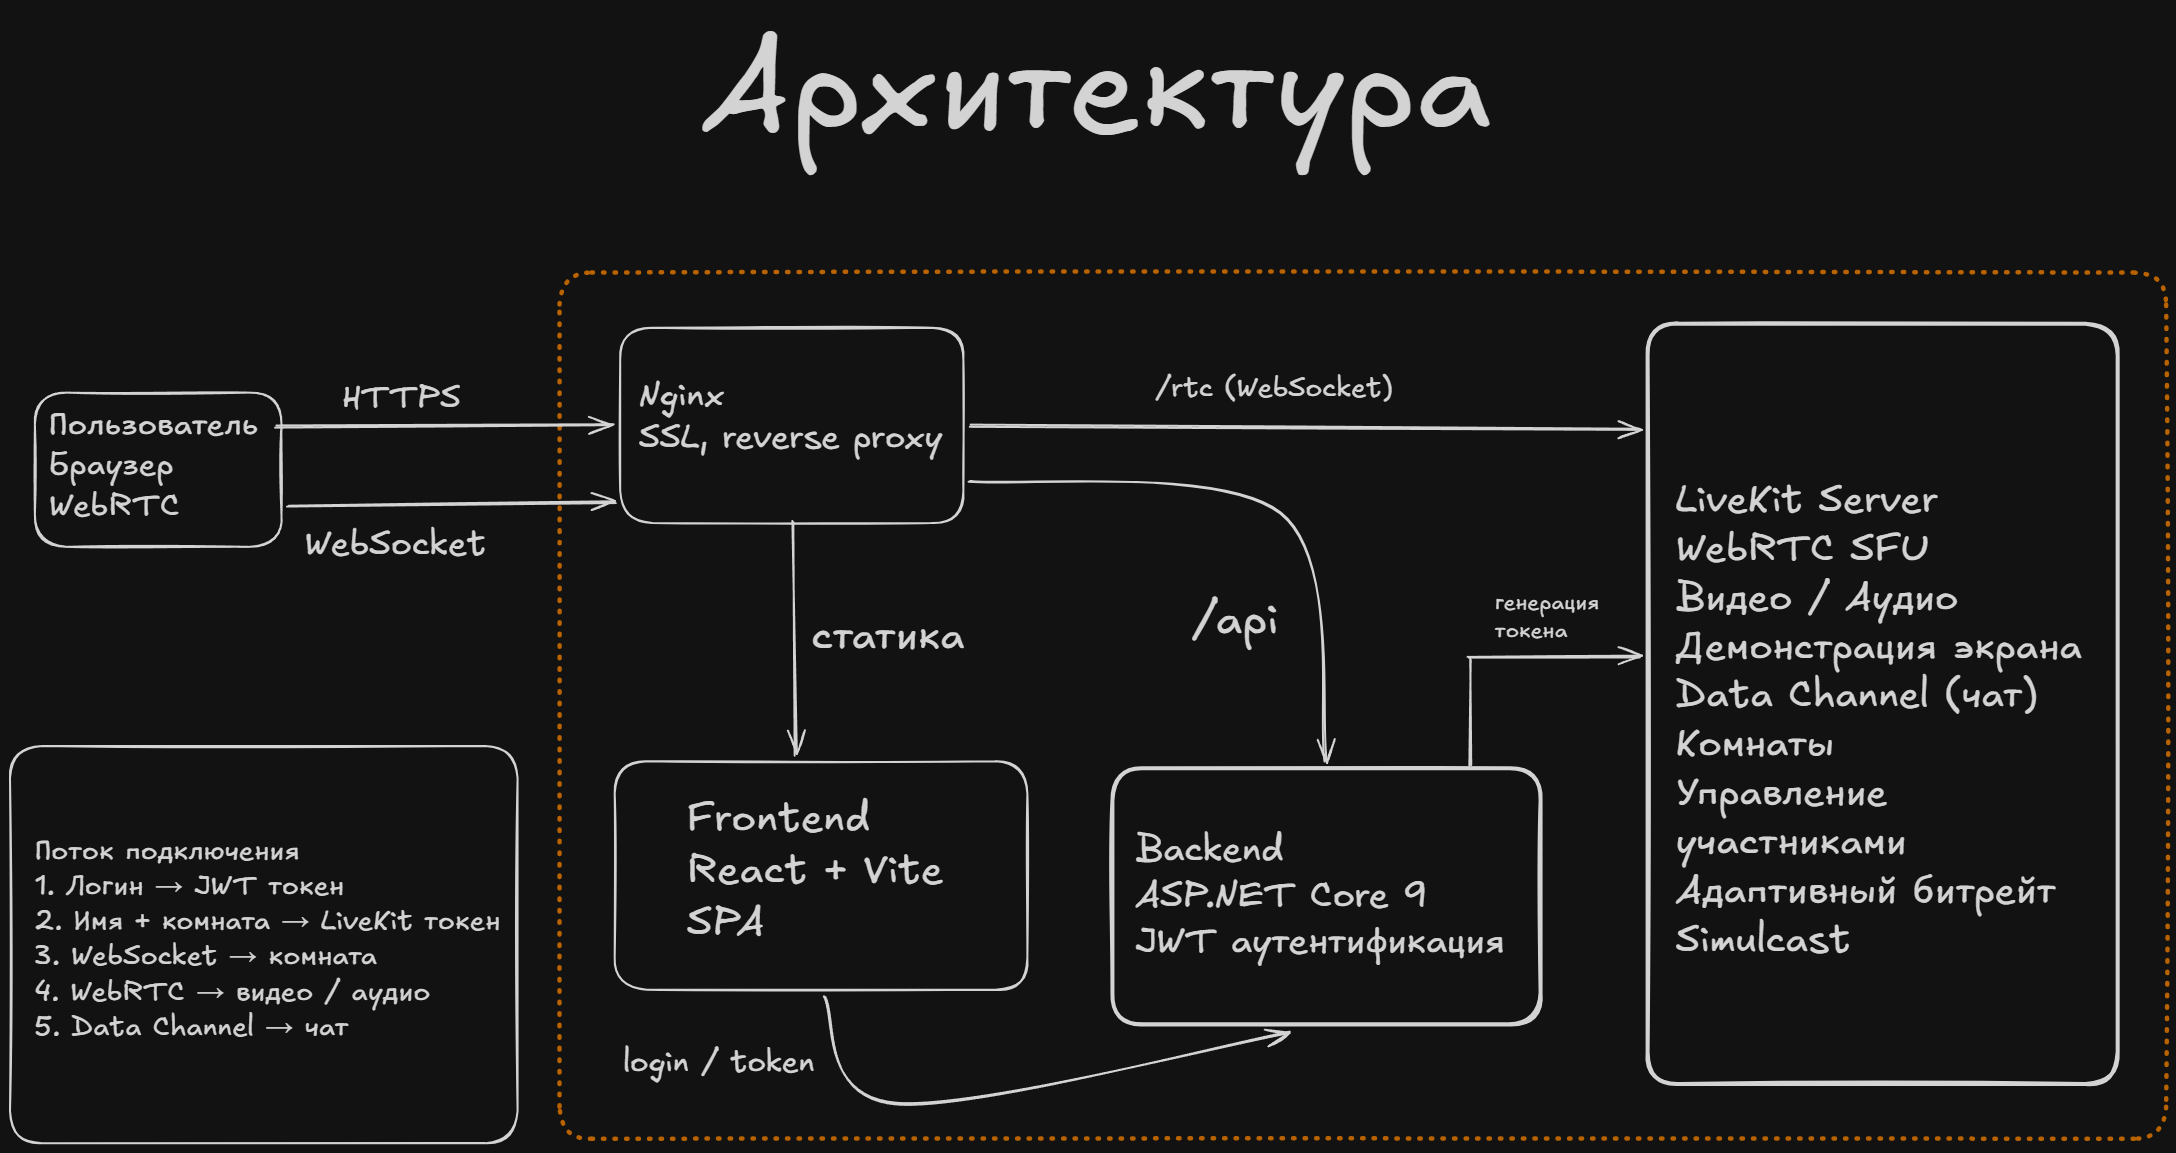
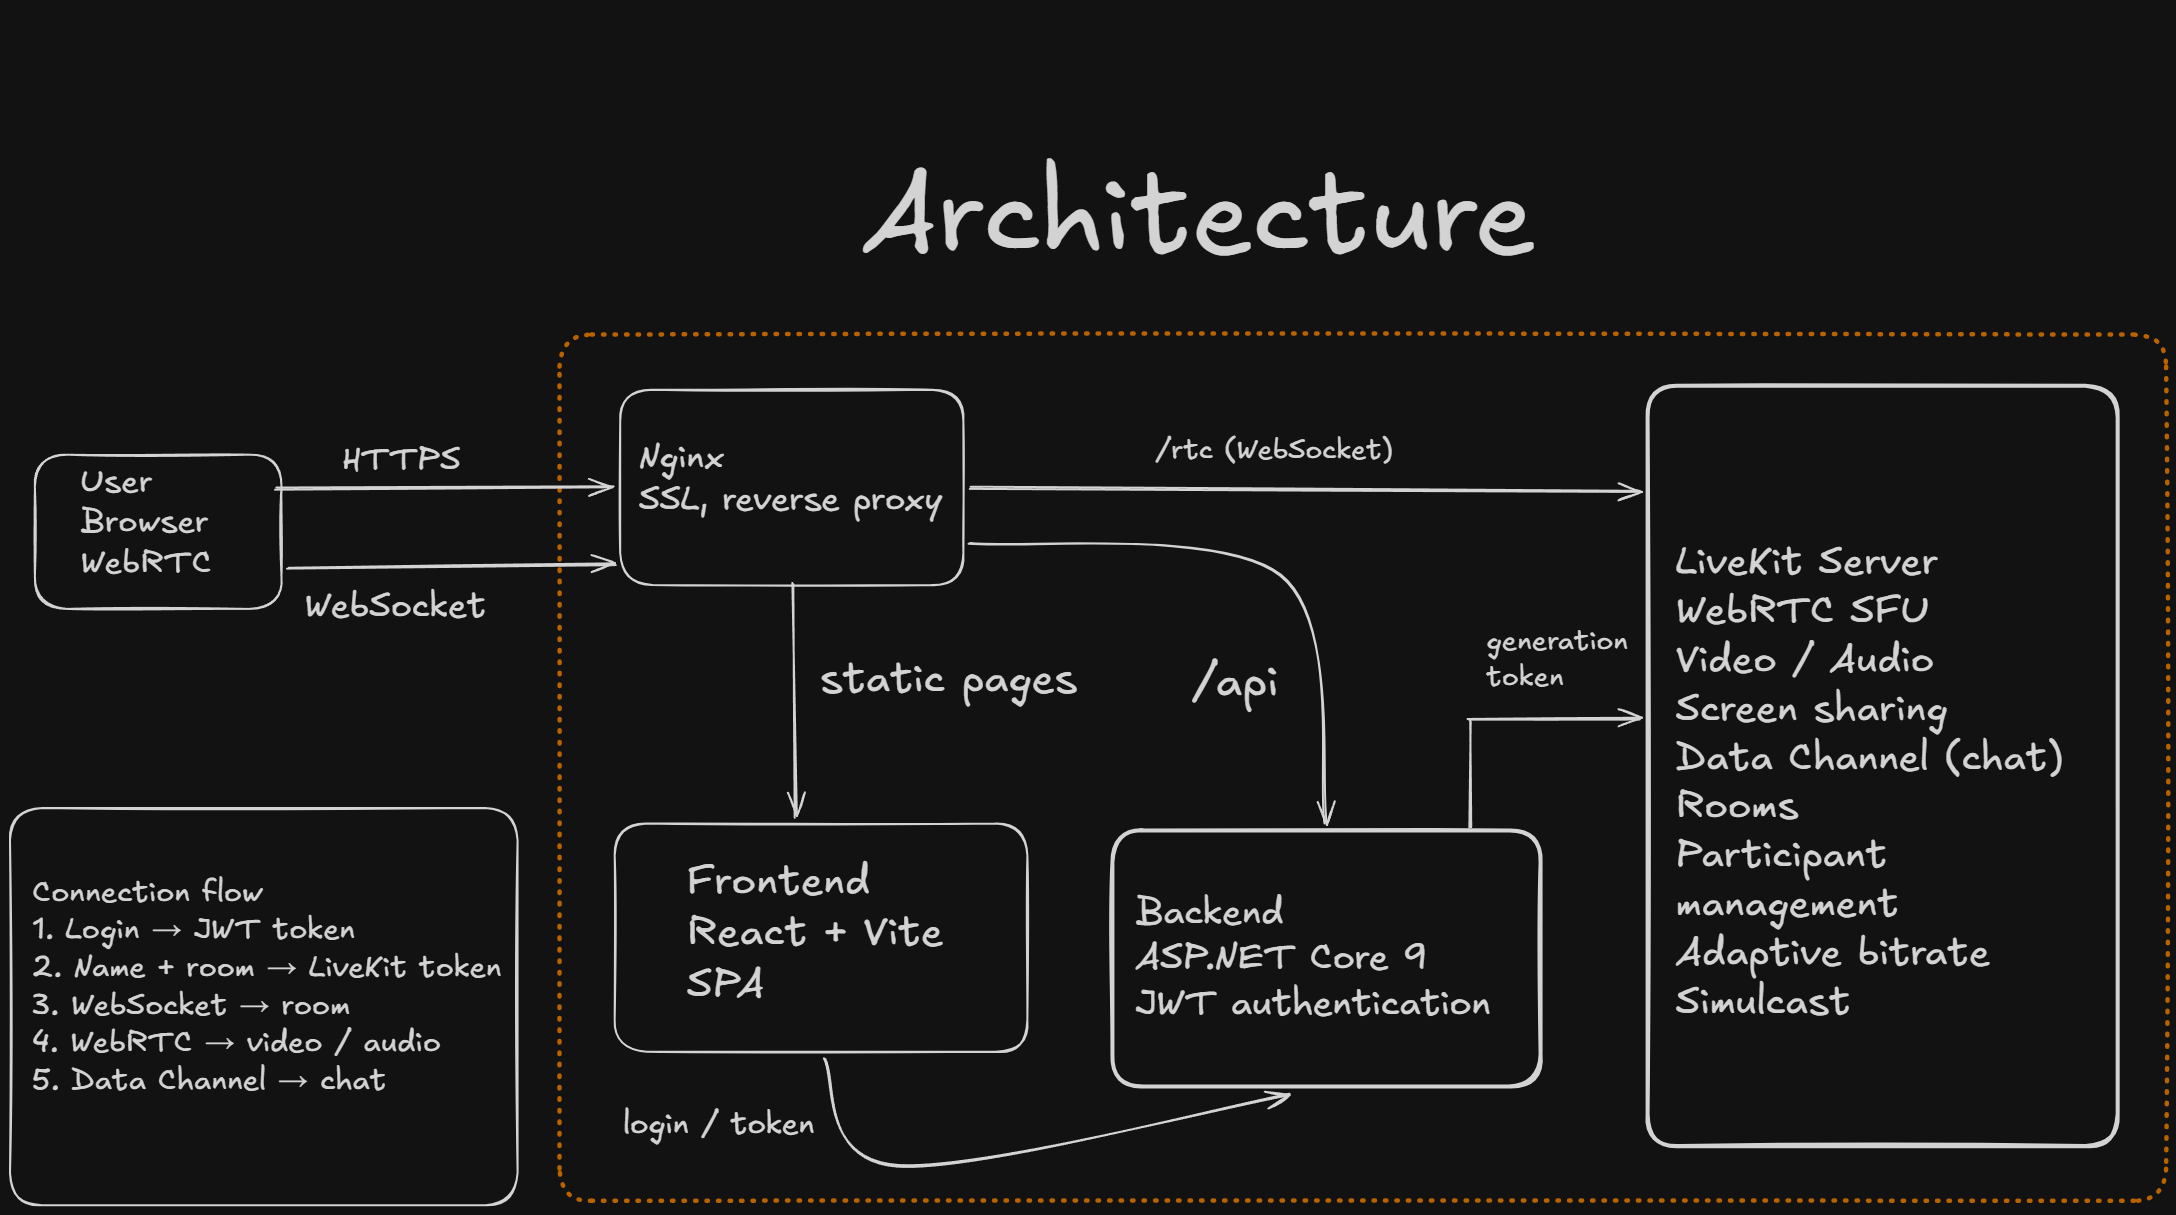
fix readme

diff --git a/README.md b/README.md
@@ -1,107 +1,107 @@
 # Together
 
-Групповые видеозвонки с демонстрацией экрана, чатом и настройками устройств.
+Group video calls with screen sharing, chat, and device settings.
 
-## Архитектура
+## Architecture
 
-![Архитектура](./architecture.png)
+![Architecture](./architecture.png)
 
-### Как работает подключение
+### How the connection works
 
 ```
-Пользователь (Браузер)
+User (Browser)
        │
-       │  1. HTTPS: логин/пароль
+       │  1. HTTPS: login/password
        ▼
     Nginx (SSL, reverse proxy)
        │
-       ├──→ Frontend (React SPA) — отдаёт статику
+       ├──→ Frontend (React SPA) — serves static files
        │
        ├──→ Backend (.NET API)
        │       │
-       │       │  2. Проверяет логин/пароль
-       │       │  3. Возвращает JWT сессионный токен
+       │       │  2. Validates login/password
+       │       │  3. Returns JWT session token
        │       │
-       │       │  4. Принимает JWT + имя + комнату
-       │       │  5. Генерирует LiveKit Access Token
+       │       │  4. Accepts JWT + display name + room
+       │       │  5. Generates LiveKit Access Token
        │       ▼
        │    LiveKit Server (WebRTC SFU)
        │       │
-       │       │  6. WebSocket: подключение к комнате
-       │       │  7. WebRTC: видео, аудио, экран
-       │       │  8. Data Channel: текстовый чат
+       │       │  6. WebSocket: join room
+       │       │  7. WebRTC: video, audio, screen
+       │       │  8. Data Channel: text chat
        │       ▼
-       └──→ /rtc → LiveKit (проксирует WebSocket)
+       └──→ /rtc → LiveKit (proxies WebSocket)
 ```
 
-### Компоненты
+### Components
 
-**Frontend** — React + Vite SPA с тремя экранами:
-- **Login** — ввод логина и пароля, получение JWT-токена
-- **Lobby** — выбор имени, комнаты, аватара, настройка микрофона/камеры/динамиков, тест микрофона
-- **Call** — видеозвонок: сетка участников, управление микрофоном/камерой/экраном, чат, настройки качества
+**Frontend** — React + Vite SPA with three screens:
+- **Login** — enter login and password, get JWT token
+- **Lobby** — choose name, room, avatar, configure microphone/camera/speakers, test microphone
+- **Call** — video call: participant grid, mic/camera/screen controls, chat, quality settings
 
 **Backend** — ASP.NET Core 9:
-- `POST /api/authorization/login` — аутентификация, возвращает JWT
-- `POST /api/authorization/token` — генерация LiveKit Access Token (требует JWT)
-- JWT-аутентификация, Swagger, Serilog, Health Checks
+- `POST /api/authorization/login` — authentication, returns JWT
+- `POST /api/authorization/token` — generates LiveKit Access Token (requires JWT)
+- JWT authentication, Swagger, Serilog, Health Checks
 
 **LiveKit** — Open-source WebRTC SFU (Selective Forwarding Unit):
-- Не перекодирует медиа, а пересылает между участниками
-- Адаптивный битрейт, simulcast (несколько слоёв качества)
-- Комнаты, управление участниками, Data Channel для чата
+- Does not transcode media, forwards between participants
+- Adaptive bitrate, simulcast (multiple quality layers)
+- Rooms, participant management, Data Channel for chat
 
-### Стек
+### Stack
 
-| Слой | Технологии |
-|------|-----------|
+| Layer | Technologies |
+|-------|-------------|
 | Frontend | React, Vite, livekit-client |
 | Backend | .NET 9, ASP.NET Core, JWT, Serilog |
-| Медиа | LiveKit Server (WebRTC SFU) |
-| Прокси | Nginx (SSL termination, reverse proxy) |
-| Развёртывание | Docker, Docker Compose |
+| Media | LiveKit Server (WebRTC SFU) |
+| Proxy | Nginx (SSL termination, reverse proxy) |
+| Deployment | Docker, Docker Compose |
 
-## Настройка секретов
+## Secrets Configuration
 
-Перед запуском нужно создать два файла с секретами:
+Before running, create two files with secrets:
 
 ### 1. `backend/Together/appsettings.Development.json`
 
 ```json
 {
   "LiveKit": {
-    "ApiKey": "ваш-api-key",
-    "ApiSecret": "ваш-api-secret"
+    "ApiKey": "your-api-key",
+    "ApiSecret": "your-api-secret"
   },
   "Jwt": {
-    "Secret": "секрет-минимум-32-символа"
+    "Secret": "your-secret-at-least-32-chars"
   },
   "AdminProfile": {
-    "user_name": "логин",
-    "password": "пароль"
+    "user_name": "username",
+    "password": "password"
   }
 }
 ```
 
 ### 2. `livekit/livekit.yaml`
 
-Скопируйте `livekit/livekit.yaml.example` и заполните реальными значениями:
+Copy `livekit/livekit.yaml.example` and fill in real values:
 
 ```yaml
 keys:
-  ваш-api-key: ваш-api-secret
+  your-api-key: your-api-secret
 ```
 
-## Развёртывание на сервере
+## Server Deployment
 
 ```bash
-# Собрать и запушить образы
+# Build and push images
 ./deploy.sh
 
-# На сервере:
+# On the server:
 cd /opt/together
 docker compose -f docker-compose.server.yml pull
 docker compose -f docker-compose.server.yml up -d
 ```
 
-Для HTTPS нужно получить SSL-сертификаты (например, через Let's Encrypt) и указать пути в `docker-compose.server.yml`.
+For HTTPS you need SSL certificates (e.g. via Let's Encrypt) and set the paths in `docker-compose.server.yml`.
